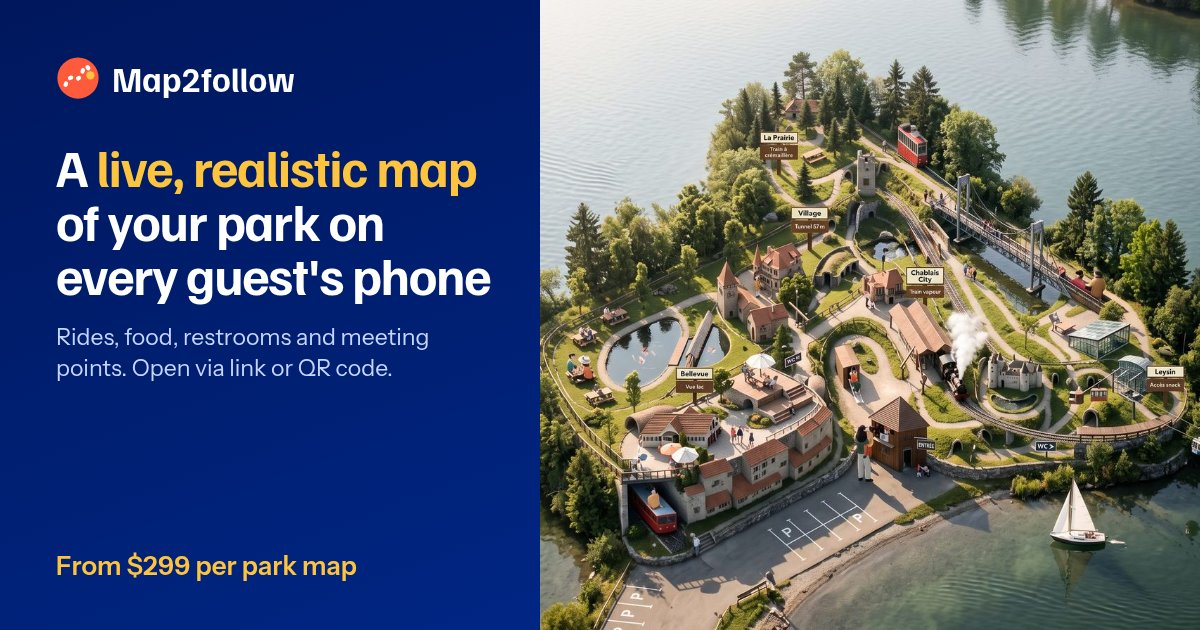
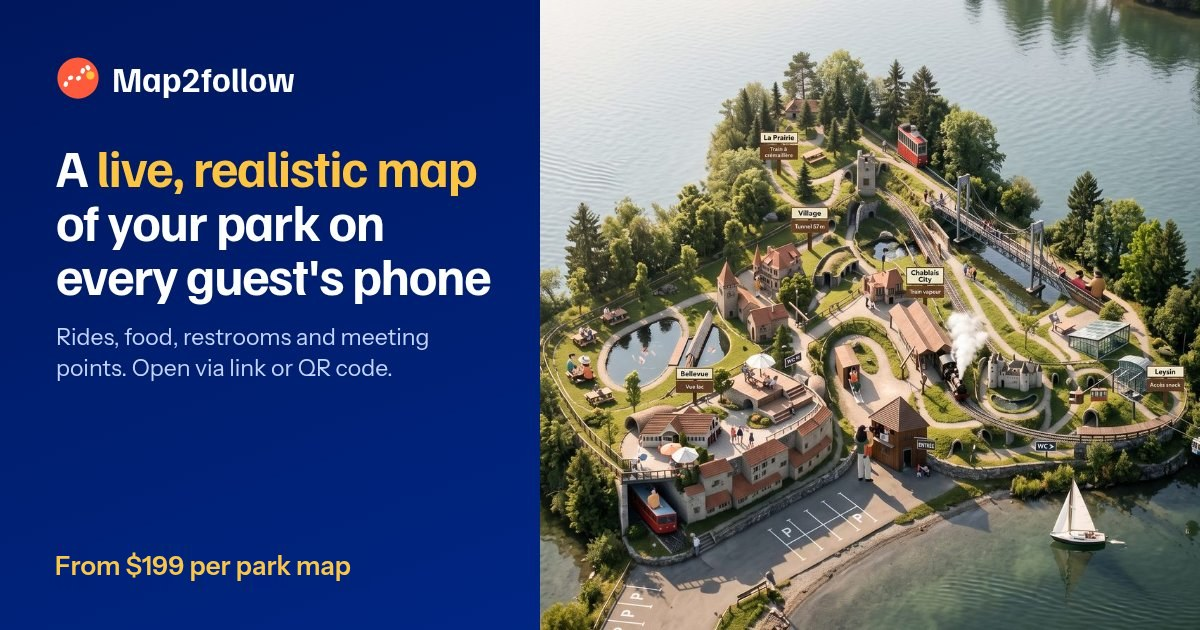
Lower package prices by $100: Essential $199, Signature $299, Premium $399

Changed region(s): [[0.0308, 0.8746, 0.3083, 0.9349]]

diff --git a/index.html b/index.html
@@ -4,7 +4,7 @@
 <meta charset="utf-8">
 <meta name="viewport" content="width=device-width,initial-scale=1,viewport-fit=cover">
 <title>Live Interactive Park Maps for Amusement, Safari &amp; Waterparks | Map2follow</title>
-<meta name="description" content="Live, realistic park maps your guests open on their phones: you-are-here signposts, rides, food, restrooms and routes. One-time from $299. Free live preview.">
+<meta name="description" content="Live, realistic park maps your guests open on their phones: you-are-here signposts, rides, food, restrooms and routes. One-time from $199. Free live preview.">
 <!--ROBOTS-->
 <link rel="canonical" href="https://www.map2follow.com/">
 <link rel="alternate" hreflang="en" href="https://www.map2follow.com/">
@@ -19,15 +19,15 @@
 <meta property="og:site_name" content="Map2follow">
 <meta property="og:locale" content="en_US">
 <meta property="og:title" content="Live Interactive Park Maps | Map2follow">
-<meta property="og:description" content="Live, realistic park maps your guests open on their phones: you-are-here signposts, rides, food, restrooms and routes. One-time from $299. Free live preview.">
+<meta property="og:description" content="Live, realistic park maps your guests open on their phones: you-are-here signposts, rides, food, restrooms and routes. One-time from $199. Free live preview.">
 <meta property="og:url" content="https://www.map2follow.com/">
 <meta property="og:image" content="https://www.map2follow.com/img/og-image.jpg">
 <meta property="og:image:width" content="1200">
 <meta property="og:image:height" content="630">
-<meta property="og:image:alt" content="Map2follow: live, realistic park maps for your guests' phones, from $299 per park map">
+<meta property="og:image:alt" content="Map2follow: live, realistic park maps for your guests' phones, from $199 per park map">
 <meta name="twitter:card" content="summary_large_image">
 <meta name="twitter:title" content="Live Interactive Park Maps | Map2follow">
-<meta name="twitter:description" content="Live, realistic park maps your guests open on their phones: you-are-here signposts, rides, food, restrooms and routes. One-time from $299. Free live preview.">
+<meta name="twitter:description" content="Live, realistic park maps your guests open on their phones: you-are-here signposts, rides, food, restrooms and routes. One-time from $199. Free live preview.">
 <meta name="twitter:image" content="https://www.map2follow.com/img/og-image.jpg">
 <link rel="preload" href="fonts/familjen-grotesk-latin.woff2" as="font" type="font/woff2" crossorigin>
 <link rel="preload" href="fonts/instrument-sans-latin.woff2" as="font" type="font/woff2" crossorigin>
@@ -361,8 +361,8 @@ footer a{color:inherit;margin-inline-start:14px;display:inline-block;padding-blo
 .cmpt tbody tr:hover th,.cmpt tbody tr:hover td{background:color-mix(in srgb,var(--sun) 12%,var(--panel))}
 .hd-cta .lg{display:inline}@media (max-width:420px){.hd-cta .lg{display:none}}
 </style>
-<script type="application/ld+json">{"@context": "https://schema.org", "@graph": [{"@type": "Organization", "@id": "https://www.map2follow.com/#org", "name": "Map2follow", "url": "https://www.map2follow.com/", "logo": "https://www.map2follow.com/img/icon-512.png", "email": "map2follow@gmail.com", "telephone": "+41 77 232 93 94", "address": {"@type": "PostalAddress", "streetAddress": "Staffeleggweg 9", "postalCode": "5033", "addressLocality": "Buchs AG", "addressCountry": "CH"}, "sameAs": ["https://www.map2follow.ch/"]}, {"@type": "WebSite", "@id": "https://www.map2follow.com/#website", "url": "https://www.map2follow.com/", "name": "Map2follow", "inLanguage": "en-US", "publisher": {"@id": "https://www.map2follow.com/#org"}}, {"@type": "Service", "@id": "https://www.map2follow.com/#service", "name": "Live interactive park maps", "serviceType": "Interactive park map", "provider": {"@id": "https://www.map2follow.com/#org"}, "description": "Live, realistic and interactive park maps that guests open on their phones via link or QR code, for amusement parks, safari and drive-thru parks, waterparks and adventure parks.", "areaServed": {"@type": "Country", "name": "United States"}, "offers": {"@type": "AggregateOffer", "priceCurrency": "USD", "lowPrice": 299, "highPrice": 499, "offerCount": 3, "url": "https://www.map2follow.com/#packages", "offers": [{"@type": "Offer", "name": "Essential package", "price": 299, "priceCurrency": "USD", "description": "Realistic live web map of your park; Up to 5 clickable points; Zoom and pan, mobile-optimized, opens in the browser; Entrance QR code with \"You are here\" marker; 2 revision rounds; Free minor updates for 30 days; Launch kit included", "url": "https://www.map2follow.com/#packages"}, {"@type": "Offer", "name": "Signature package", "price": 399, "priceCurrency": "USD", "description": "Everything in Essential; Up to 20 clickable points; Up to 10 you-are-here QR codes for signposts; Search and category filters: rides, food, restrooms, first aid, parking; Info pop-ups with photos and descriptions; Embed on your website; 3 revision rounds; Free minor updates for 90 days", "url": "https://www.map2follow.com/#packages"}, {"@type": "Offer", "name": "Premium package", "price": 499, "priceCurrency": "USD", "description": "Everything in Signature; Up to 30 clickable points; Up to 20 you-are-here QR codes for signposts; Bilingual version: English and Spanish; Seasonal or event layer; Meeting points and suggested routes from A to B; 2 update rounds within 12 months; Free minor updates for 12 months; Priority handling", "url": "https://www.map2follow.com/#packages"}]}}]}</script>
-<script type="application/ld+json">{"@context": "https://schema.org", "@type": "FAQPage", "mainEntity": [{"@type": "Question", "name": "What is a live park map?", "acceptedAnswer": {"@type": "Answer", "text": "A realistic, interactive map of your park that your guests open on their phones. They search and tap rides, food, restrooms and meeting points, follow suggested routes and coordinate with their family or group during the visit."}}, {"@type": "Question", "name": "What is the free live preview?", "acceptedAnswer": {"@type": "Answer", "text": "Before you pay anything, we program a first interactive preview of your park map, based on your current map or site plan, that you can try on your phone. You see how your map looks and works for your guests. It is free and without obligation; afterwards you decide if you want to order."}}, {"@type": "Question", "name": "How does payment work?", "acceptedAnswer": {"@type": "Answer", "text": "Typically 50% after you approve the first draft and 50% on delivery. The exact terms are confirmed in your quote. Every package is a one-time price, with no subscription and no ongoing fees."}}, {"@type": "Question", "name": "Is it a subscription?", "acceptedAnswer": {"@type": "Answer", "text": "No. Every package is a one-time purchase: one-time price, no subscription and no ongoing fees."}}, {"@type": "Question", "name": "How do guests open the map?", "acceptedAnswer": {"@type": "Answer", "text": "Via a link or a QR code, for example at the entrance, on tickets, on signposts or on your website. The map opens in the phone's web browser, so there is no app to download."}}, {"@type": "Question", "name": "How do guests know where they are without GPS?", "acceptedAnswer": {"@type": "Answer", "text": "With numbered signposts in your park that match the map. Each signpost has its own QR code: scanning it opens the map with a \"You are here\" marker at that spot, so guests see where they are and the suggested route to where they want to go. Signature includes up to 10 signpost QR codes, Premium up to 20."}}, {"@type": "Question", "name": "What does a live park map cost?", "acceptedAnswer": {"@type": "Answer", "text": "Essential costs $299, Signature $399 and Premium $499 per park map, each as a one-time price. The final price depends on the size of your park and your special requests, and is confirmed in your quote."}}, {"@type": "Question", "name": "Which package is right for our park?", "acceptedAnswer": {"@type": "Answer", "text": "Essential suits smaller parks with up to 5 clickable points and an entrance QR code. Signature adds up to 20 points, up to 10 signpost QR codes, search, filters, info pop-ups with photos and website embedding, which is why we recommend it for most parks. Premium adds up to 30 points and 20 signpost QR codes, English and Spanish, a seasonal or event layer, meeting points and suggested routes, and two update rounds within 12 months."}}, {"@type": "Question", "name": "What is in the launch kit?", "acceptedAnswer": {"@type": "Answer", "text": "Every package includes a launch kit: print-ready QR code sign templates (PDF) for your entrance and signposts, a ready-to-share link, a social media preview image and post graphic, and a short setup guide for your staff."}}, {"@type": "Question", "name": "What is the difference between minor updates and update rounds?", "acceptedAnswer": {"@type": "Answer", "text": "Minor updates are small corrections such as a changed opening time, a renamed place or a moved pin. They are free for 30 days with Essential, 90 days with Signature and 12 months with Premium. Update rounds are larger changes, for example adding a new attraction; Premium includes two update rounds within 12 months. Further updates are available on request."}}, {"@type": "Question", "name": "What is the offer until December 31, 2026?", "acceptedAnswer": {"@type": "Answer", "text": "If you book any package before December 31, 2026, you get a winter or holiday layer for your map for free. With Premium, it comes in addition to the included seasonal or event layer."}}, {"@type": "Question", "name": "Where is the map hosted, and can we embed it on our website?", "acceptedAnswer": {"@type": "Answer", "text": "Your live map is a one-time purchase. How it is hosted and embedded on your website is agreed in your quote. Website embedding is part of the Signature and Premium packages."}}, {"@type": "Question", "name": "Which devices does it work on?", "acceptedAnswer": {"@type": "Answer", "text": "On smartphones, tablets and computers with a current web browser. The map is optimized for phones, because that is where guests use it in the park."}}, {"@type": "Question", "name": "How long does it take?", "acceptedAnswer": {"@type": "Answer", "text": "It depends on the size of your park and the package you choose. We give you a turnaround estimate with your quote. Premium includes priority handling."}}, {"@type": "Question", "name": "What do you need from us to get started?", "acceptedAnswer": {"@type": "Answer", "text": "Your current map or site plan (a screenshot or photo is enough), a list of your attractions and facilities, and your logo or brand colors. For info pop-ups we also use your photos and short descriptions."}}]}</script>
+<script type="application/ld+json">{"@context": "https://schema.org", "@graph": [{"@type": "Organization", "@id": "https://www.map2follow.com/#org", "name": "Map2follow", "url": "https://www.map2follow.com/", "logo": "https://www.map2follow.com/img/icon-512.png", "email": "map2follow@gmail.com", "telephone": "+41 77 232 93 94", "address": {"@type": "PostalAddress", "streetAddress": "Staffeleggweg 9", "postalCode": "5033", "addressLocality": "Buchs AG", "addressCountry": "CH"}, "sameAs": ["https://www.map2follow.ch/"]}, {"@type": "WebSite", "@id": "https://www.map2follow.com/#website", "url": "https://www.map2follow.com/", "name": "Map2follow", "inLanguage": "en-US", "publisher": {"@id": "https://www.map2follow.com/#org"}}, {"@type": "Service", "@id": "https://www.map2follow.com/#service", "name": "Live interactive park maps", "serviceType": "Interactive park map", "provider": {"@id": "https://www.map2follow.com/#org"}, "description": "Live, realistic and interactive park maps that guests open on their phones via link or QR code, for amusement parks, safari and drive-thru parks, waterparks and adventure parks.", "areaServed": {"@type": "Country", "name": "United States"}, "offers": {"@type": "AggregateOffer", "priceCurrency": "USD", "lowPrice": 199, "highPrice": 399, "offerCount": 3, "url": "https://www.map2follow.com/#packages", "offers": [{"@type": "Offer", "name": "Essential package", "price": 199, "priceCurrency": "USD", "description": "Realistic live web map of your park; Up to 5 clickable points; Zoom and pan, mobile-optimized, opens in the browser; Entrance QR code with \"You are here\" marker; 2 revision rounds; Free minor updates for 30 days; Launch kit included", "url": "https://www.map2follow.com/#packages"}, {"@type": "Offer", "name": "Signature package", "price": 299, "priceCurrency": "USD", "description": "Everything in Essential; Up to 20 clickable points; Up to 10 you-are-here QR codes for signposts; Search and category filters: rides, food, restrooms, first aid, parking; Info pop-ups with photos and descriptions; Embed on your website; 3 revision rounds; Free minor updates for 90 days", "url": "https://www.map2follow.com/#packages"}, {"@type": "Offer", "name": "Premium package", "price": 399, "priceCurrency": "USD", "description": "Everything in Signature; Up to 30 clickable points; Up to 20 you-are-here QR codes for signposts; Bilingual version: English and Spanish; Seasonal or event layer; Meeting points and suggested routes from A to B; 2 update rounds within 12 months; Free minor updates for 12 months; Priority handling", "url": "https://www.map2follow.com/#packages"}]}}]}</script>
+<script type="application/ld+json">{"@context": "https://schema.org", "@type": "FAQPage", "mainEntity": [{"@type": "Question", "name": "What is a live park map?", "acceptedAnswer": {"@type": "Answer", "text": "A realistic, interactive map of your park that your guests open on their phones. They search and tap rides, food, restrooms and meeting points, follow suggested routes and coordinate with their family or group during the visit."}}, {"@type": "Question", "name": "What is the free live preview?", "acceptedAnswer": {"@type": "Answer", "text": "Before you pay anything, we program a first interactive preview of your park map, based on your current map or site plan, that you can try on your phone. You see how your map looks and works for your guests. It is free and without obligation; afterwards you decide if you want to order."}}, {"@type": "Question", "name": "How does payment work?", "acceptedAnswer": {"@type": "Answer", "text": "Typically 50% after you approve the first draft and 50% on delivery. The exact terms are confirmed in your quote. Every package is a one-time price, with no subscription and no ongoing fees."}}, {"@type": "Question", "name": "Is it a subscription?", "acceptedAnswer": {"@type": "Answer", "text": "No. Every package is a one-time purchase: one-time price, no subscription and no ongoing fees."}}, {"@type": "Question", "name": "How do guests open the map?", "acceptedAnswer": {"@type": "Answer", "text": "Via a link or a QR code, for example at the entrance, on tickets, on signposts or on your website. The map opens in the phone's web browser, so there is no app to download."}}, {"@type": "Question", "name": "How do guests know where they are without GPS?", "acceptedAnswer": {"@type": "Answer", "text": "With numbered signposts in your park that match the map. Each signpost has its own QR code: scanning it opens the map with a \"You are here\" marker at that spot, so guests see where they are and the suggested route to where they want to go. Signature includes up to 10 signpost QR codes, Premium up to 20."}}, {"@type": "Question", "name": "What does a live park map cost?", "acceptedAnswer": {"@type": "Answer", "text": "Essential costs $199, Signature $299 and Premium $399 per park map, each as a one-time price. The final price depends on the size of your park and your special requests, and is confirmed in your quote."}}, {"@type": "Question", "name": "Which package is right for our park?", "acceptedAnswer": {"@type": "Answer", "text": "Essential suits smaller parks with up to 5 clickable points and an entrance QR code. Signature adds up to 20 points, up to 10 signpost QR codes, search, filters, info pop-ups with photos and website embedding, which is why we recommend it for most parks. Premium adds up to 30 points and 20 signpost QR codes, English and Spanish, a seasonal or event layer, meeting points and suggested routes, and two update rounds within 12 months."}}, {"@type": "Question", "name": "What is in the launch kit?", "acceptedAnswer": {"@type": "Answer", "text": "Every package includes a launch kit: print-ready QR code sign templates (PDF) for your entrance and signposts, a ready-to-share link, a social media preview image and post graphic, and a short setup guide for your staff."}}, {"@type": "Question", "name": "What is the difference between minor updates and update rounds?", "acceptedAnswer": {"@type": "Answer", "text": "Minor updates are small corrections such as a changed opening time, a renamed place or a moved pin. They are free for 30 days with Essential, 90 days with Signature and 12 months with Premium. Update rounds are larger changes, for example adding a new attraction; Premium includes two update rounds within 12 months. Further updates are available on request."}}, {"@type": "Question", "name": "What is the offer until December 31, 2026?", "acceptedAnswer": {"@type": "Answer", "text": "If you book any package before December 31, 2026, you get a winter or holiday layer for your map for free. With Premium, it comes in addition to the included seasonal or event layer."}}, {"@type": "Question", "name": "Where is the map hosted, and can we embed it on our website?", "acceptedAnswer": {"@type": "Answer", "text": "Your live map is a one-time purchase. How it is hosted and embedded on your website is agreed in your quote. Website embedding is part of the Signature and Premium packages."}}, {"@type": "Question", "name": "Which devices does it work on?", "acceptedAnswer": {"@type": "Answer", "text": "On smartphones, tablets and computers with a current web browser. The map is optimized for phones, because that is where guests use it in the park."}}, {"@type": "Question", "name": "How long does it take?", "acceptedAnswer": {"@type": "Answer", "text": "It depends on the size of your park and the package you choose. We give you a turnaround estimate with your quote. Premium includes priority handling."}}, {"@type": "Question", "name": "What do you need from us to get started?", "acceptedAnswer": {"@type": "Answer", "text": "Your current map or site plan (a screenshot or photo is enough), a list of your attractions and facilities, and your logo or brand colors. For info pop-ups we also use your photos and short descriptions."}}]}</script>
 </head>
 <body>
 <a class="skip" href="#main">Skip to content</a>
@@ -378,7 +378,7 @@ footer a{color:inherit;margin-inline-start:14px;display:inline-block;padding-blo
       <div class="eyebrow">Live park maps for amusement, safari, water and adventure parks</div>
       <h1>A <em>live, realistic map</em> of your park, right on your guests' phones</h1>
       <p class="lead">Your guests open an interactive map of your park in their browser, see where they are and find rides, food, restrooms and meeting points in seconds. Less searching, fewer questions at the info desk, easier coordination for families and groups.</p>
-      <div class="pricechip"><strong>$299–$499</strong><span>one-time price per park map · no subscription</span></div>
+      <div class="pricechip"><strong>$199–$399</strong><span>one-time price per park map · no subscription</span></div>
       <div class="btns"><a class="btn pri" href="#contact" data-sketch>Get your free live preview <span class="ar" aria-hidden="true">→</span></a><a class="tl-light" href="#explore">Try the live demo</a></div>
       <p class="introh">Book before Dec 31, 2026: free winter or holiday layer with any package</p>
       <ul class="ticks">
@@ -400,7 +400,7 @@ footer a{color:inherit;margin-inline-start:14px;display:inline-block;padding-blo
 
 <div class="promise" aria-label="Our promise"><div class="w">
   <div class="pm"><div class="ic" style="--c1:#008cff;--c2:#00175c"><svg viewBox="0 0 24 24" fill="none" stroke="currentColor" stroke-width="2" stroke-linecap="round" stroke-linejoin="round" aria-hidden="true"><path d="M3 17l6-6 4 4 8-8"/><path d="M14 7h7v7"/></svg></div><div><b>Free live preview</b><span>We program a first interactive preview of your park map that you can try on your phone before you pay anything.</span></div></div>
-  <div class="pm"><div class="ic" style="--c1:#9a5fe0;--c2:#5b2fa8"><svg viewBox="0 0 24 24" fill="none" stroke="currentColor" stroke-width="2" stroke-linecap="round" stroke-linejoin="round" aria-hidden="true"><rect x="2.5" y="5" width="19" height="14" rx="2"/><path d="M2.5 10h19M6 15h4"/></svg></div><div><b>One-time price</b><span>$299–$499, no subscription. Typically 50% after you approve the first draft.</span></div></div>
+  <div class="pm"><div class="ic" style="--c1:#9a5fe0;--c2:#5b2fa8"><svg viewBox="0 0 24 24" fill="none" stroke="currentColor" stroke-width="2" stroke-linecap="round" stroke-linejoin="round" aria-hidden="true"><rect x="2.5" y="5" width="19" height="14" rx="2"/><path d="M2.5 10h19M6 15h4"/></svg></div><div><b>One-time price</b><span>$199–$399, no subscription. Typically 50% after you approve the first draft.</span></div></div>
   <div class="pm"><div class="ic" style="--c1:#ff5a3c;--c2:#c83c24"><svg viewBox="0 0 24 24" fill="none" stroke="currentColor" stroke-width="2" stroke-linecap="round" stroke-linejoin="round" aria-hidden="true"><rect x="3" y="8" width="18" height="13" rx="1.5"/><path d="M12 8v13M3 12h18M12 8c-2-4-6-4-6-1.5S9 8 12 8zm0 0c2-4 6-4 6-1.5S15 8 12 8z"/></svg></div><div><b>Launch kit included</b><span>QR sign templates, share link, social graphics and a staff guide.</span></div></div>
 </div></div>
 
@@ -474,21 +474,21 @@ footer a{color:inherit;margin-inline-start:14px;display:inline-block;padding-blo
   <div class="pk">
     <article class="tier rv" aria-labelledby="t-essential">
       <h3 class="tn" id="t-essential">Essential</h3><p class="td">A live map that gets your guests oriented fast.</p>
-      <p class="pr">$299<small>per park map</small></p><p class="once">One-time price · no subscription</p>
+      <p class="pr">$199<small>per park map</small></p><p class="once">One-time price · no subscription</p>
       <ul><li><svg viewBox="0 0 24 24" fill="none" stroke="currentColor" stroke-width="2" stroke-linecap="round" stroke-linejoin="round" aria-hidden="true"><path d="M5 12.5l4.5 4.5L19 7.5"/></svg><span>Realistic live web map of your park</span></li><li><svg viewBox="0 0 24 24" fill="none" stroke="currentColor" stroke-width="2" stroke-linecap="round" stroke-linejoin="round" aria-hidden="true"><path d="M5 12.5l4.5 4.5L19 7.5"/></svg><span>Up to 5 clickable points</span></li><li><svg viewBox="0 0 24 24" fill="none" stroke="currentColor" stroke-width="2" stroke-linecap="round" stroke-linejoin="round" aria-hidden="true"><path d="M5 12.5l4.5 4.5L19 7.5"/></svg><span>Zoom and pan, mobile-optimized, opens in the browser</span></li><li><svg viewBox="0 0 24 24" fill="none" stroke="currentColor" stroke-width="2" stroke-linecap="round" stroke-linejoin="round" aria-hidden="true"><path d="M5 12.5l4.5 4.5L19 7.5"/></svg><span>Entrance QR code with "You are here" marker</span></li><li><svg viewBox="0 0 24 24" fill="none" stroke="currentColor" stroke-width="2" stroke-linecap="round" stroke-linejoin="round" aria-hidden="true"><path d="M5 12.5l4.5 4.5L19 7.5"/></svg><span>2 revision rounds</span></li><li><svg viewBox="0 0 24 24" fill="none" stroke="currentColor" stroke-width="2" stroke-linecap="round" stroke-linejoin="round" aria-hidden="true"><path d="M5 12.5l4.5 4.5L19 7.5"/></svg><span>Free minor updates for 30 days</span></li><li><svg viewBox="0 0 24 24" fill="none" stroke="currentColor" stroke-width="2" stroke-linecap="round" stroke-linejoin="round" aria-hidden="true"><path d="M5 12.5l4.5 4.5L19 7.5"/></svg><span>Launch kit included</span></li></ul>
-      <a class="btn out" href="#contact" data-pkg="Essential" data-price="299" data-sketch aria-label="Get your free live preview with the Essential package">Get your free live preview <span class="ar" aria-hidden="true">→</span></a>
+      <a class="btn out" href="#contact" data-pkg="Essential" data-price="199" data-sketch aria-label="Get your free live preview with the Essential package">Get your free live preview <span class="ar" aria-hidden="true">→</span></a>
     </article>
     <article class="tier rec rv" aria-labelledby="t-signature"><span class="badge">Recommended</span>
       <h3 class="tn" id="t-signature">Signature</h3><p class="td">The full guest map with signposts, search, details and website embed.</p>
-      <p class="pr">$399<small>per park map</small></p><p class="once">One-time price · no subscription</p>
+      <p class="pr">$299<small>per park map</small></p><p class="once">One-time price · no subscription</p>
       <ul><li class="inh"><svg viewBox="0 0 24 24" fill="none" stroke="currentColor" stroke-width="2" stroke-linecap="round" stroke-linejoin="round" aria-hidden="true"><path d="M5 12.5l4.5 4.5L19 7.5"/></svg><span>Everything in Essential</span></li><li><svg viewBox="0 0 24 24" fill="none" stroke="currentColor" stroke-width="2" stroke-linecap="round" stroke-linejoin="round" aria-hidden="true"><path d="M5 12.5l4.5 4.5L19 7.5"/></svg><span>Up to 20 clickable points</span></li><li><svg viewBox="0 0 24 24" fill="none" stroke="currentColor" stroke-width="2" stroke-linecap="round" stroke-linejoin="round" aria-hidden="true"><path d="M5 12.5l4.5 4.5L19 7.5"/></svg><span>Up to 10 you-are-here QR codes for signposts</span></li><li><svg viewBox="0 0 24 24" fill="none" stroke="currentColor" stroke-width="2" stroke-linecap="round" stroke-linejoin="round" aria-hidden="true"><path d="M5 12.5l4.5 4.5L19 7.5"/></svg><span>Search and category filters: rides, food, restrooms, first aid, parking</span></li><li><svg viewBox="0 0 24 24" fill="none" stroke="currentColor" stroke-width="2" stroke-linecap="round" stroke-linejoin="round" aria-hidden="true"><path d="M5 12.5l4.5 4.5L19 7.5"/></svg><span>Info pop-ups with photos and descriptions</span></li><li><svg viewBox="0 0 24 24" fill="none" stroke="currentColor" stroke-width="2" stroke-linecap="round" stroke-linejoin="round" aria-hidden="true"><path d="M5 12.5l4.5 4.5L19 7.5"/></svg><span>Embed on your website</span></li><li><svg viewBox="0 0 24 24" fill="none" stroke="currentColor" stroke-width="2" stroke-linecap="round" stroke-linejoin="round" aria-hidden="true"><path d="M5 12.5l4.5 4.5L19 7.5"/></svg><span>3 revision rounds</span></li><li><svg viewBox="0 0 24 24" fill="none" stroke="currentColor" stroke-width="2" stroke-linecap="round" stroke-linejoin="round" aria-hidden="true"><path d="M5 12.5l4.5 4.5L19 7.5"/></svg><span>Free minor updates for 90 days</span></li></ul>
-      <a class="btn pri" href="#contact" data-pkg="Signature" data-price="399" data-sketch aria-label="Get your free live preview with the Signature package">Get your free live preview <span class="ar" aria-hidden="true">→</span></a>
+      <a class="btn pri" href="#contact" data-pkg="Signature" data-price="299" data-sketch aria-label="Get your free live preview with the Signature package">Get your free live preview <span class="ar" aria-hidden="true">→</span></a>
     </article>
     <article class="tier rv" aria-labelledby="t-premium">
       <h3 class="tn" id="t-premium">Premium</h3><p class="td">Bigger parks, two languages and tools that help groups coordinate.</p>
-      <p class="pr">$499<small>per park map</small></p><p class="once">One-time price · no subscription</p>
+      <p class="pr">$399<small>per park map</small></p><p class="once">One-time price · no subscription</p>
       <ul><li class="inh"><svg viewBox="0 0 24 24" fill="none" stroke="currentColor" stroke-width="2" stroke-linecap="round" stroke-linejoin="round" aria-hidden="true"><path d="M5 12.5l4.5 4.5L19 7.5"/></svg><span>Everything in Signature</span></li><li><svg viewBox="0 0 24 24" fill="none" stroke="currentColor" stroke-width="2" stroke-linecap="round" stroke-linejoin="round" aria-hidden="true"><path d="M5 12.5l4.5 4.5L19 7.5"/></svg><span>Up to 30 clickable points</span></li><li><svg viewBox="0 0 24 24" fill="none" stroke="currentColor" stroke-width="2" stroke-linecap="round" stroke-linejoin="round" aria-hidden="true"><path d="M5 12.5l4.5 4.5L19 7.5"/></svg><span>Up to 20 you-are-here QR codes for signposts</span></li><li><svg viewBox="0 0 24 24" fill="none" stroke="currentColor" stroke-width="2" stroke-linecap="round" stroke-linejoin="round" aria-hidden="true"><path d="M5 12.5l4.5 4.5L19 7.5"/></svg><span>Bilingual version: English and Spanish</span></li><li><svg viewBox="0 0 24 24" fill="none" stroke="currentColor" stroke-width="2" stroke-linecap="round" stroke-linejoin="round" aria-hidden="true"><path d="M5 12.5l4.5 4.5L19 7.5"/></svg><span>Seasonal or event layer</span></li><li><svg viewBox="0 0 24 24" fill="none" stroke="currentColor" stroke-width="2" stroke-linecap="round" stroke-linejoin="round" aria-hidden="true"><path d="M5 12.5l4.5 4.5L19 7.5"/></svg><span>Meeting points and suggested routes from A to B</span></li><li><svg viewBox="0 0 24 24" fill="none" stroke="currentColor" stroke-width="2" stroke-linecap="round" stroke-linejoin="round" aria-hidden="true"><path d="M5 12.5l4.5 4.5L19 7.5"/></svg><span>2 update rounds within 12 months</span></li><li><svg viewBox="0 0 24 24" fill="none" stroke="currentColor" stroke-width="2" stroke-linecap="round" stroke-linejoin="round" aria-hidden="true"><path d="M5 12.5l4.5 4.5L19 7.5"/></svg><span>Free minor updates for 12 months</span></li><li><svg viewBox="0 0 24 24" fill="none" stroke="currentColor" stroke-width="2" stroke-linecap="round" stroke-linejoin="round" aria-hidden="true"><path d="M5 12.5l4.5 4.5L19 7.5"/></svg><span>Priority handling</span></li></ul>
-      <a class="btn out" href="#contact" data-pkg="Premium" data-price="499" data-sketch aria-label="Get your free live preview with the Premium package">Get your free live preview <span class="ar" aria-hidden="true">→</span></a>
+      <a class="btn out" href="#contact" data-pkg="Premium" data-price="399" data-sketch aria-label="Get your free live preview with the Premium package">Get your free live preview <span class="ar" aria-hidden="true">→</span></a>
     </article>
   </div>
   <div class="kit">
@@ -504,7 +504,7 @@ footer a{color:inherit;margin-inline-start:14px;display:inline-block;padding-blo
       <p>Payment terms and turnaround are confirmed in your quote.</p></div>
   </div>
   <div class="cmpw rv" role="region" aria-label="Package comparison" tabindex="0"><table class="cmpt"><caption>Compare packages</caption>
-    <thead><tr><td></td><th scope="col">Essential<small>$299 one-time</small></th><th scope="col" class="rc">Signature<small>$399 one-time · Recommended</small></th><th scope="col">Premium<small>$499 one-time</small></th></tr></thead>
+    <thead><tr><td></td><th scope="col">Essential<small>$199 one-time</small></th><th scope="col" class="rc">Signature<small>$299 one-time · Recommended</small></th><th scope="col">Premium<small>$399 one-time</small></th></tr></thead>
     <tbody><tr><th scope="row">Realistic live web map</th><td><svg viewBox="0 0 24 24" fill="none" stroke="currentColor" stroke-width="2" stroke-linecap="round" stroke-linejoin="round" aria-hidden="true"><path d="M5 12.5l4.5 4.5L19 7.5"/></svg><span class="sr">Included</span></td><td class="rc"><svg viewBox="0 0 24 24" fill="none" stroke="currentColor" stroke-width="2" stroke-linecap="round" stroke-linejoin="round" aria-hidden="true"><path d="M5 12.5l4.5 4.5L19 7.5"/></svg><span class="sr">Included</span></td><td><svg viewBox="0 0 24 24" fill="none" stroke="currentColor" stroke-width="2" stroke-linecap="round" stroke-linejoin="round" aria-hidden="true"><path d="M5 12.5l4.5 4.5L19 7.5"/></svg><span class="sr">Included</span></td></tr>
 <tr><th scope="row">Clickable points</th><td>5</td><td class="rc">20</td><td>30</td></tr>
 <tr><th scope="row">Zoom, pan, mobile-optimized</th><td><svg viewBox="0 0 24 24" fill="none" stroke="currentColor" stroke-width="2" stroke-linecap="round" stroke-linejoin="round" aria-hidden="true"><path d="M5 12.5l4.5 4.5L19 7.5"/></svg><span class="sr">Included</span></td><td class="rc"><svg viewBox="0 0 24 24" fill="none" stroke="currentColor" stroke-width="2" stroke-linecap="round" stroke-linejoin="round" aria-hidden="true"><path d="M5 12.5l4.5 4.5L19 7.5"/></svg><span class="sr">Included</span></td><td><svg viewBox="0 0 24 24" fill="none" stroke="currentColor" stroke-width="2" stroke-linecap="round" stroke-linejoin="round" aria-hidden="true"><path d="M5 12.5l4.5 4.5L19 7.5"/></svg><span class="sr">Included</span></td></tr>
@@ -542,7 +542,7 @@ footer a{color:inherit;margin-inline-start:14px;display:inline-block;padding-blo
     <details class="rv"><summary>Is it a subscription?</summary><p>No. Every package is a one-time purchase: one-time price, no subscription and no ongoing fees.</p></details>
     <details class="rv"><summary>How do guests open the map?</summary><p>Via a link or a QR code, for example at the entrance, on tickets, on signposts or on your website. The map opens in the phone&#x27;s web browser, so there is no app to download.</p></details>
     <details class="rv"><summary>How do guests know where they are without GPS?</summary><p>With numbered signposts in your park that match the map. Each signpost has its own QR code: scanning it opens the map with a &quot;You are here&quot; marker at that spot, so guests see where they are and the suggested route to where they want to go. Signature includes up to 10 signpost QR codes, Premium up to 20.</p></details>
-    <details class="rv"><summary>What does a live park map cost?</summary><p>Essential costs $299, Signature $399 and Premium $499 per park map, each as a one-time price. The final price depends on the size of your park and your special requests, and is confirmed in your quote.</p></details>
+    <details class="rv"><summary>What does a live park map cost?</summary><p>Essential costs $199, Signature $299 and Premium $399 per park map, each as a one-time price. The final price depends on the size of your park and your special requests, and is confirmed in your quote.</p></details>
     <details class="rv"><summary>Which package is right for our park?</summary><p>Essential suits smaller parks with up to 5 clickable points and an entrance QR code. Signature adds up to 20 points, up to 10 signpost QR codes, search, filters, info pop-ups with photos and website embedding, which is why we recommend it for most parks. Premium adds up to 30 points and 20 signpost QR codes, English and Spanish, a seasonal or event layer, meeting points and suggested routes, and two update rounds within 12 months.</p></details>
     <details class="rv"><summary>What is in the launch kit?</summary><p>Every package includes a launch kit: print-ready QR code sign templates (PDF) for your entrance and signposts, a ready-to-share link, a social media preview image and post graphic, and a short setup guide for your staff.</p></details>
     <details class="rv"><summary>What is the difference between minor updates and update rounds?</summary><p>Minor updates are small corrections such as a changed opening time, a renamed place or a moved pin. They are free for 30 days with Essential, 90 days with Signature and 12 months with Premium. Update rounds are larger changes, for example adding a new attraction; Premium includes two update rounds within 12 months. Further updates are available on request.</p></details>
@@ -559,7 +559,7 @@ footer a{color:inherit;margin-inline-start:14px;display:inline-block;padding-blo
     <div>
       <h2>Get your free live preview.</h2>
       <p style="margin-top:14px">Send us your current map and a few words about your park. We program a free interactive preview of your park map that you can try on your phone, and send it with your quote, without obligation. The request opens as an email draft, so you can attach your map.</p>
-      <p style="margin-top:14px">Packages from $299 to $499 per park map, one-time price, no subscription. Final price depends on park size and special requests.</p>
+      <p style="margin-top:14px">Packages from $199 to $399 per park map, one-time price, no subscription. Final price depends on park size and special requests.</p>
       <p style="margin-top:14px"><strong>Email:</strong> <a href="mailto:map2follow@gmail.com">map2follow@gmail.com</a><br><strong>Phone:</strong> <a href="tel:+41772329394">+41 77 232 93 94</a></p>
       <p class="sel" id="selPkg" hidden></p>
     </div>
